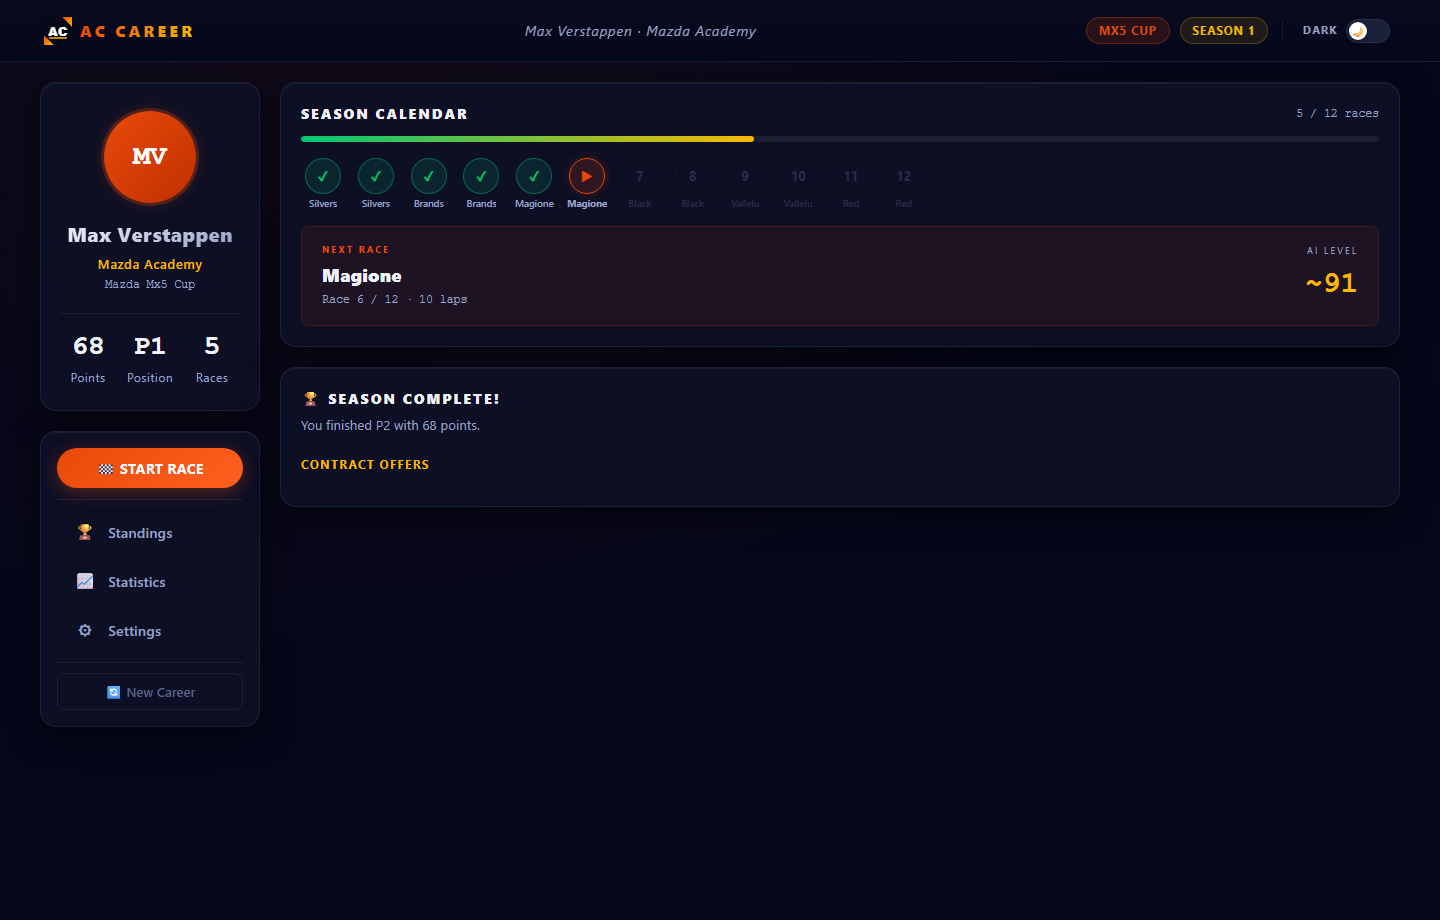
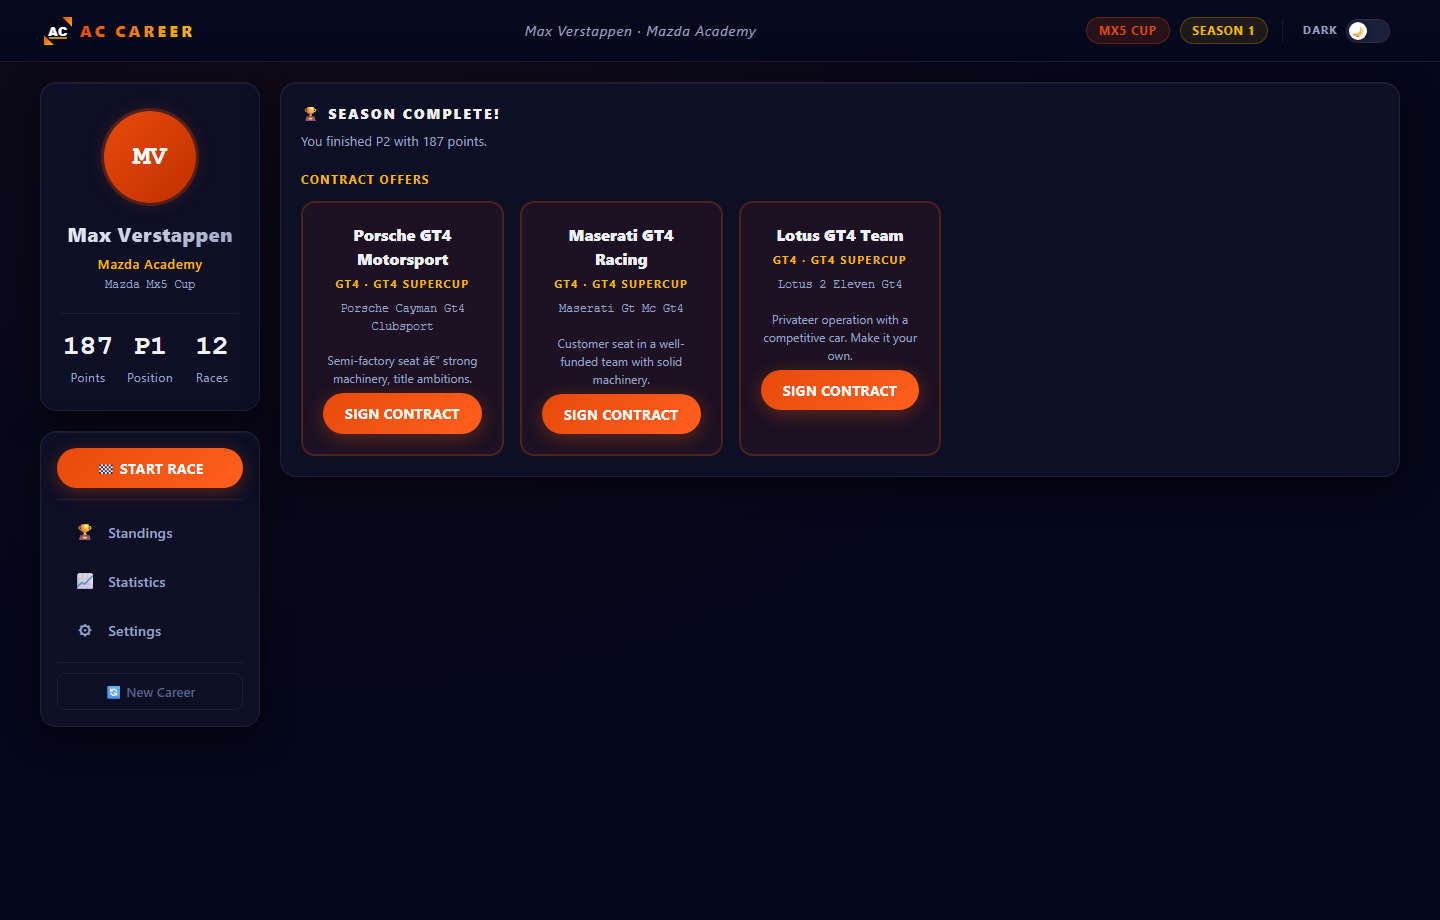
fix: hide calendar bar in non-standings views; retake settings & season-end screenshots

diff --git a/static/app.js b/static/app.js
@@ -376,6 +376,9 @@ function showView(name) {
             el.classList.add('hidden');
         }
     });
+    // Hide calendar card on non-standings views
+    const cal = document.querySelector('.calendar-card');
+    if (cal) cal.classList.toggle('hidden', name !== 'standings');
 }
 
 function openConfig() {
